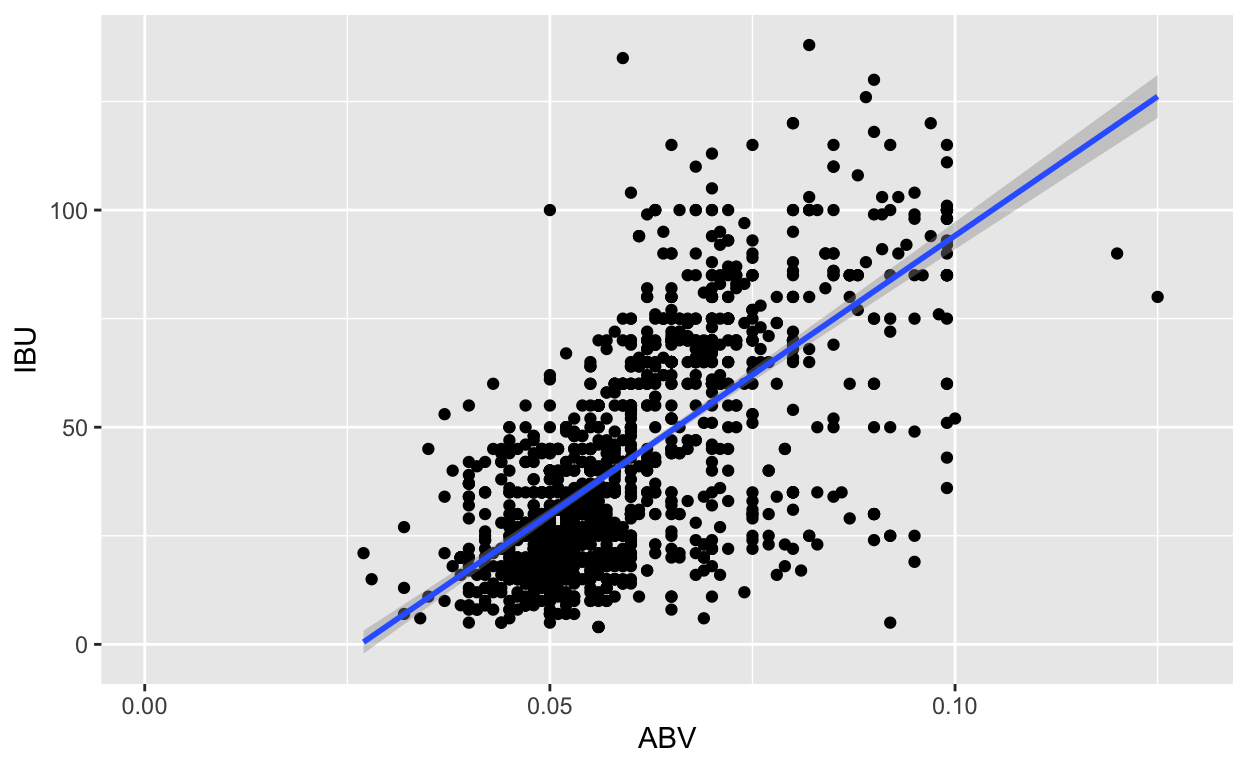
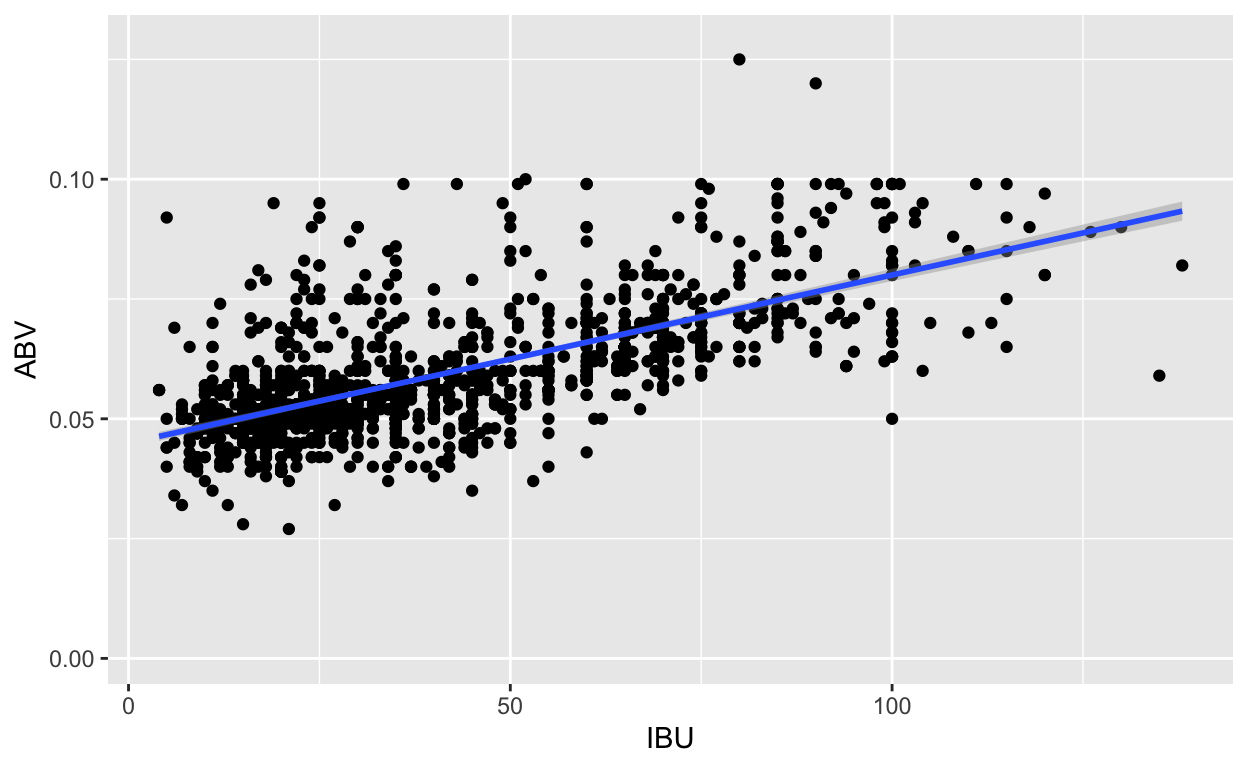
R markdown updates

diff --git a/_posts/2024-05-16-uploading-to-the-r-club-blog1/Example.html b/_posts/2024-05-16-uploading-to-the-r-club-blog1/Example.html
@@ -1610,14 +1610,14 @@ code span.wa { color: #5e5e5e; font-style: italic; } /* Warning */
 <div class="layout-chunk" data-layout="l-body">
 <div class="sourceCode">
 <pre class="sourceCode r"><code class="sourceCode r"><span><span class='va'>Beer_data</span> <span class='op'><a href='https://magrittr.tidyverse.org/reference/pipe.html'>%&gt;%</a></span></span>
-<span>  <span class='fu'><a href='https://ggplot2.tidyverse.org/reference/ggplot.html'>ggplot</a></span><span class='op'>(</span><span class='fu'><a href='https://ggplot2.tidyverse.org/reference/aes.html'>aes</a></span><span class='op'>(</span>x<span class='op'>=</span><span class='va'>ABV</span>,y<span class='op'>=</span><span class='va'>IBU</span><span class='op'>)</span><span class='op'>)</span> <span class='op'>+</span></span>
+<span>  <span class='fu'><a href='https://ggplot2.tidyverse.org/reference/ggplot.html'>ggplot</a></span><span class='op'>(</span><span class='fu'><a href='https://ggplot2.tidyverse.org/reference/aes.html'>aes</a></span><span class='op'>(</span>x <span class='op'>=</span> <span class='va'>IBU</span>, y <span class='op'>=</span> <span class='va'>ABV</span><span class='op'>)</span><span class='op'>)</span> <span class='op'>+</span></span>
 <span>  <span class='fu'><a href='https://ggplot2.tidyverse.org/reference/geom_point.html'>geom_point</a></span><span class='op'>(</span><span class='op'>)</span> <span class='op'>+</span></span>
 <span>  <span class='fu'><a href='https://ggplot2.tidyverse.org/reference/geom_smooth.html'>geom_smooth</a></span><span class='op'>(</span>method <span class='op'>=</span> <span class='st'>"lm"</span><span class='op'>)</span></span></code></pre>
 </div>
 <img src="Example_files/figure-html5/unnamed-chunk-4-1.png" width="624" />
 <div class="sourceCode">
 <pre class="sourceCode r"><code class="sourceCode r"><span><span class='va'>Beer_data</span> <span class='op'><a href='https://magrittr.tidyverse.org/reference/pipe.html'>%&gt;%</a></span></span>
-<span>  <span class='fu'><a href='https://ggplot2.tidyverse.org/reference/ggplot.html'>ggplot</a></span><span class='op'>(</span><span class='fu'><a href='https://ggplot2.tidyverse.org/reference/aes.html'>aes</a></span><span class='op'>(</span>x<span class='op'>=</span><span class='va'>ABV</span>,y<span class='op'>=</span><span class='va'>IBU</span><span class='op'>)</span><span class='op'>)</span> <span class='op'>+</span></span>
+<span>  <span class='fu'><a href='https://ggplot2.tidyverse.org/reference/ggplot.html'>ggplot</a></span><span class='op'>(</span><span class='fu'><a href='https://ggplot2.tidyverse.org/reference/aes.html'>aes</a></span><span class='op'>(</span>x <span class='op'>=</span> <span class='va'>IBU</span>, y <span class='op'>=</span> <span class='va'>ABV</span><span class='op'>)</span><span class='op'>)</span> <span class='op'>+</span></span>
 <span>  <span class='fu'><a href='https://ggplot2.tidyverse.org/reference/geom_point.html'>geom_point</a></span><span class='op'>(</span><span class='op'>)</span> <span class='op'>+</span></span>
 <span>  <span class='fu'><a href='https://ggplot2.tidyverse.org/reference/geom_smooth.html'>geom_smooth</a></span><span class='op'>(</span>method <span class='op'>=</span> <span class='st'>"loess"</span><span class='op'>)</span></span></code></pre>
 </div>

diff --git a/docs/posts/2024-05-16-uploading-to-the-r-club-blog1/index.html b/docs/posts/2024-05-16-uploading-to-the-r-club-blog1/index.html
@@ -2230,14 +2230,14 @@ document.addEventListener('DOMContentLoaded', function() {
 <div class="layout-chunk" data-layout="l-body">
 <div class="sourceCode">
 <pre class="sourceCode r"><code class="sourceCode r"><span><span class='va'>Beer_data</span> <span class='op'><a href='https://magrittr.tidyverse.org/reference/pipe.html'>%&gt;%</a></span></span>
-<span>  <span class='fu'><a href='https://ggplot2.tidyverse.org/reference/ggplot.html'>ggplot</a></span><span class='op'>(</span><span class='fu'><a href='https://ggplot2.tidyverse.org/reference/aes.html'>aes</a></span><span class='op'>(</span>x<span class='op'>=</span><span class='va'>ABV</span>,y<span class='op'>=</span><span class='va'>IBU</span><span class='op'>)</span><span class='op'>)</span> <span class='op'>+</span></span>
+<span>  <span class='fu'><a href='https://ggplot2.tidyverse.org/reference/ggplot.html'>ggplot</a></span><span class='op'>(</span><span class='fu'><a href='https://ggplot2.tidyverse.org/reference/aes.html'>aes</a></span><span class='op'>(</span>x <span class='op'>=</span> <span class='va'>IBU</span>, y <span class='op'>=</span> <span class='va'>ABV</span><span class='op'>)</span><span class='op'>)</span> <span class='op'>+</span></span>
 <span>  <span class='fu'><a href='https://ggplot2.tidyverse.org/reference/geom_point.html'>geom_point</a></span><span class='op'>(</span><span class='op'>)</span> <span class='op'>+</span></span>
 <span>  <span class='fu'><a href='https://ggplot2.tidyverse.org/reference/geom_smooth.html'>geom_smooth</a></span><span class='op'>(</span>method <span class='op'>=</span> <span class='st'>"lm"</span><span class='op'>)</span></span></code></pre>
 </div>
 <img src="Example_files/figure-html5/unnamed-chunk-4-1.png" width="624" />
 <div class="sourceCode">
 <pre class="sourceCode r"><code class="sourceCode r"><span><span class='va'>Beer_data</span> <span class='op'><a href='https://magrittr.tidyverse.org/reference/pipe.html'>%&gt;%</a></span></span>
-<span>  <span class='fu'><a href='https://ggplot2.tidyverse.org/reference/ggplot.html'>ggplot</a></span><span class='op'>(</span><span class='fu'><a href='https://ggplot2.tidyverse.org/reference/aes.html'>aes</a></span><span class='op'>(</span>x<span class='op'>=</span><span class='va'>ABV</span>,y<span class='op'>=</span><span class='va'>IBU</span><span class='op'>)</span><span class='op'>)</span> <span class='op'>+</span></span>
+<span>  <span class='fu'><a href='https://ggplot2.tidyverse.org/reference/ggplot.html'>ggplot</a></span><span class='op'>(</span><span class='fu'><a href='https://ggplot2.tidyverse.org/reference/aes.html'>aes</a></span><span class='op'>(</span>x <span class='op'>=</span> <span class='va'>IBU</span>, y <span class='op'>=</span> <span class='va'>ABV</span><span class='op'>)</span><span class='op'>)</span> <span class='op'>+</span></span>
 <span>  <span class='fu'><a href='https://ggplot2.tidyverse.org/reference/geom_point.html'>geom_point</a></span><span class='op'>(</span><span class='op'>)</span> <span class='op'>+</span></span>
 <span>  <span class='fu'><a href='https://ggplot2.tidyverse.org/reference/geom_smooth.html'>geom_smooth</a></span><span class='op'>(</span>method <span class='op'>=</span> <span class='st'>"loess"</span><span class='op'>)</span></span></code></pre>
 </div>
